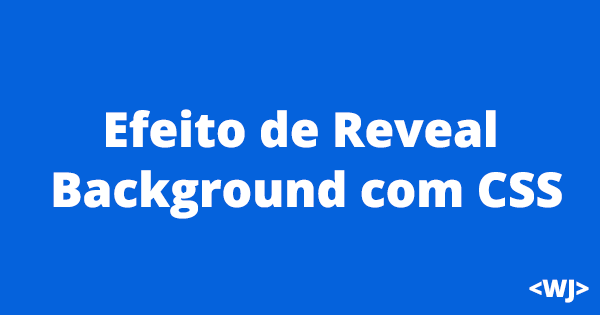
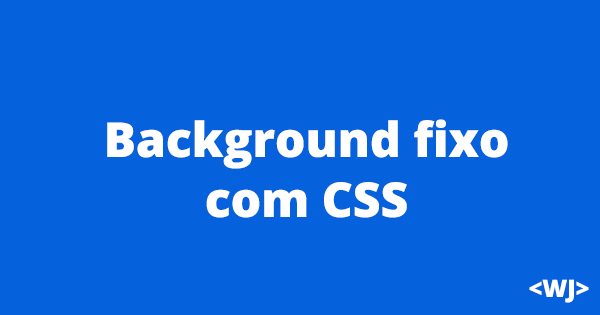
Add new post

Changed region(s): [[0.15, 0.3429, 0.87, 0.5429], [0.09, 0.5429, 0.96, 0.7143]]

diff --git a/_posts/2015-07-24-background-fixo-com-css.md b/_posts/2015-07-24-background-fixo-com-css.md
@@ -1,0 +1,138 @@
+---
+layout: post
+title: "Background fixo com CSS"
+date: 2015-07-24 00:50:02
+image: '/assets/img/reveal-bg/main.png'
+description: 'Como atrair usuários usando seções com backgrounds fixos usando só css.'
+tags:
+- css
+- trend
+categories:
+twitter_text: 'Como atrair usuários usando seções com backgrounds fixos usando só css.'
+---
+
+## Introdução
+
+Mais um post extra que venho fazendo enquanto subo a serra em direção a minha querida Petrópolis. No caminho, como não poderia deixar de ser, vou ouvindo uma incrível [playlist de jazz](https://open.spotify.com/user/spotifybrazilian/playlist/6UU6YKnGY1vhnOdjwdg7vA), que foi importante para criação desse mini mini mini tutorial.
+
+## O que vamos fazer?
+
+Seguindo um pouco daquele post sobre [Seções em Fullscreen](http://willianjusten.com.br/como-criar-secoes-fullscreen-com-css/), resolvi dar uma melhorada naquela técnica incluindo outras técnicas. A ideia desses tipos de posts é mostrar alguns conceitos simples e propriedades do css, para que iniciantes conheçam utilidades práticas de algumas coisas.
+
+**Lembrando que são experimentos, verifique a compatibilidade e o suporte que deseja ter.**
+
+Para quem gosta de ver o resultado antes mesmo de começar <s>apressadinho =p</s>, segue aqui o link do experimento:
+
+* [DEMO](http://willianjusten.com.br/labs/background-fixo-css/)
+
+## Montando o Markup
+
+Para cada frase eu criei uma seção e de acordo com os pesos que eu desejava para a fonte, utilizei diferentes `headings` e o `p` para os autores. Como são citações, utilizei a tag `blockquote`, se não conhece, dê uma olhada na [MDN](https://developer.mozilla.org/pt-BR/docs/Web/HTML/Element/blockquote).
+
+{% highlight html %}
+<section>
+  <blockquote cite="Friedrich Nietzsche">
+      <h3>"Without music, life would be a mistake."</h3>
+      <p>Friedrich Nietzsche</p>
+  </blockquote>
+</section>
+
+<section>
+  <blockquote cite="John Green">
+      <h1>"Some people have lives; some people have music."</h1>
+      <p>John Green</p>
+  </blockquote>
+</section>
+
+<section>
+  <blockquote cite="Victor Hugo">
+      <h4>"Music expresses that which cannot be said and on which it is impossible to be silent."</h4>
+      <p>Victor Hugo</p>
+  </blockquote>
+</section>
+{% endhighlight %}
+
+
+## Brincadeiras no CSS
+
+### Seções com altura total
+
+Primeiro, para ter seções ocupando 100% da viewport, vou fazer o mesmo trabalho do [post anterior](http://willianjusten.com.br/como-criar-secoes-fullscreen-com-css/), ou seja, irei [viewport units](http://desenvolvimentoparaweb.com/css/unidades-css-rem-vh-vw-vmin-vmax-ex-ch/). E para os espaçamentos e fontes, resolvi brincar com as viewport units também, porém, trabalhando com a largura da tela `vw`.
+
+{% highlight css %}
+section { 
+    height: 100vh; 
+    padding: 2vw;
+    font-size: 4vw; 
+}
+{% endhighlight %}
+
+### Textos centralizados verticalmente
+
+Para centralizar os textos, também resolvi brincar dessa vez com Flexbox, se quiser aprender sobre tem esse [artigo fodão](https://css-tricks.com/snippets/css/a-guide-to-flexbox/) que ensina tudo. Primeiro defino o `display: flex` para informar que vou usar esse modelo de layout.  Depois defino que quero organizar o layout com `flex-direction: column`, que no caso irá organizar de de cima para baixo. E então uso `align-itens: center` para ter meu texto centralizado verticalmente.
+
+{% highlight css %}
+section { 
+    display: flex;
+    flex-direction: column;
+    align-items: center;
+    justify-content: center;
+    text-align: center; 
+}
+{% endhighlight %}
+
+Para a primeira seção o seu título precisava de um destaque maior, resolvi usar o pseudo-seletor `first-of-type` para pegar só essa primeira seção. Lembrando que pseudo-seletores não são tão performáticos quanto classes, mas em momentos que você não pode utilizar classes diretamente, se tornam ótimas soluções.
+
+{% highlight css %}
+section:first-of-type { 
+    text-transform: uppercase;
+    font-size: 7vw;
+}
+{% endhighlight %}
+
+### Background fixo e em toda área
+
+Para dar o toque final, primeiro vamos inserir um background que cubra a área toda.
+
+{% highlight css %}
+section {
+    background-size: cover;
+    background-repeat: no-repeat;
+}
+{% endhighlight %}
+
+O `backgroung-size` será responsável por fazer a imagem ocupar toda a área que ela puder e se ajeitar se a tela for menor. Só tome cuidado para não colocar imagens com qualidade muito baixa, pois isso pode fazer com que a imagem perca muito a qualidade. O `background-repeat` servirá só para evitar que a imagem não se repita caso tenha espaço sobrando.
+
+Como são vários backgrounds diferentes, resolvi brincar com outro pseudo-seletor que é o `nth-child(n)`, ele é responsável por selecionar elementos de acordo com o valor de `n` passado. Aproveitei que as seções ímpares são aquelas com letra branca e sombra, usei o `nth-of-type(odd)`, para assim, selecionar os números ímpares (1,3,5).
+
+{% highlight css %}
+section:nth-of-type(odd) { 
+    color: #fff;
+    background-color: #000;
+    text-shadow: 0 0 5px rgba(0,0,0,0.4); 
+}
+section:nth-child(1) { 
+    background-image: url(../img/guitar.jpg); 
+}
+section:nth-child(3) { 
+    background-image: url(../img/bass.jpg); 
+}
+section:nth-child(5) { 
+    background-image: url(../img/drums.jpg); 
+}
+{% endhighlight %}
+
+Nesse momento, temos o seguinte:
+
+![background scroll](/assets/img/reveal-bg/bg-scroll.gif)
+
+Um fundo fixo e um pouco sem graça né? Para deixar ele com uma interação diferente, coloquei ele como fixo, assim o texto na frente se move e o fundo fica fixo, causando uma espécie de paralax. Para deixar o fundo fixo, só usar `background-attachment: fixed`. E teremos algo assim:
+
+![background fixo](/assets/img/reveal-bg/bg-fixo.gif)
+
+E bom, é isso, algo bem simples, mas bonito e apresentável =)
+
+## Conclusão
+
+Enfim, foi mais um post pequeno, fácil e rápido mostrando algumas coisinhas legais do css. Lembre-se que são só experimentos e não necessarimente você precisa usar todas essas coisas. Se tiver alguma dúvida ou quiser perguntar alguma coisa, só falar nos comentários abaixo.
+
